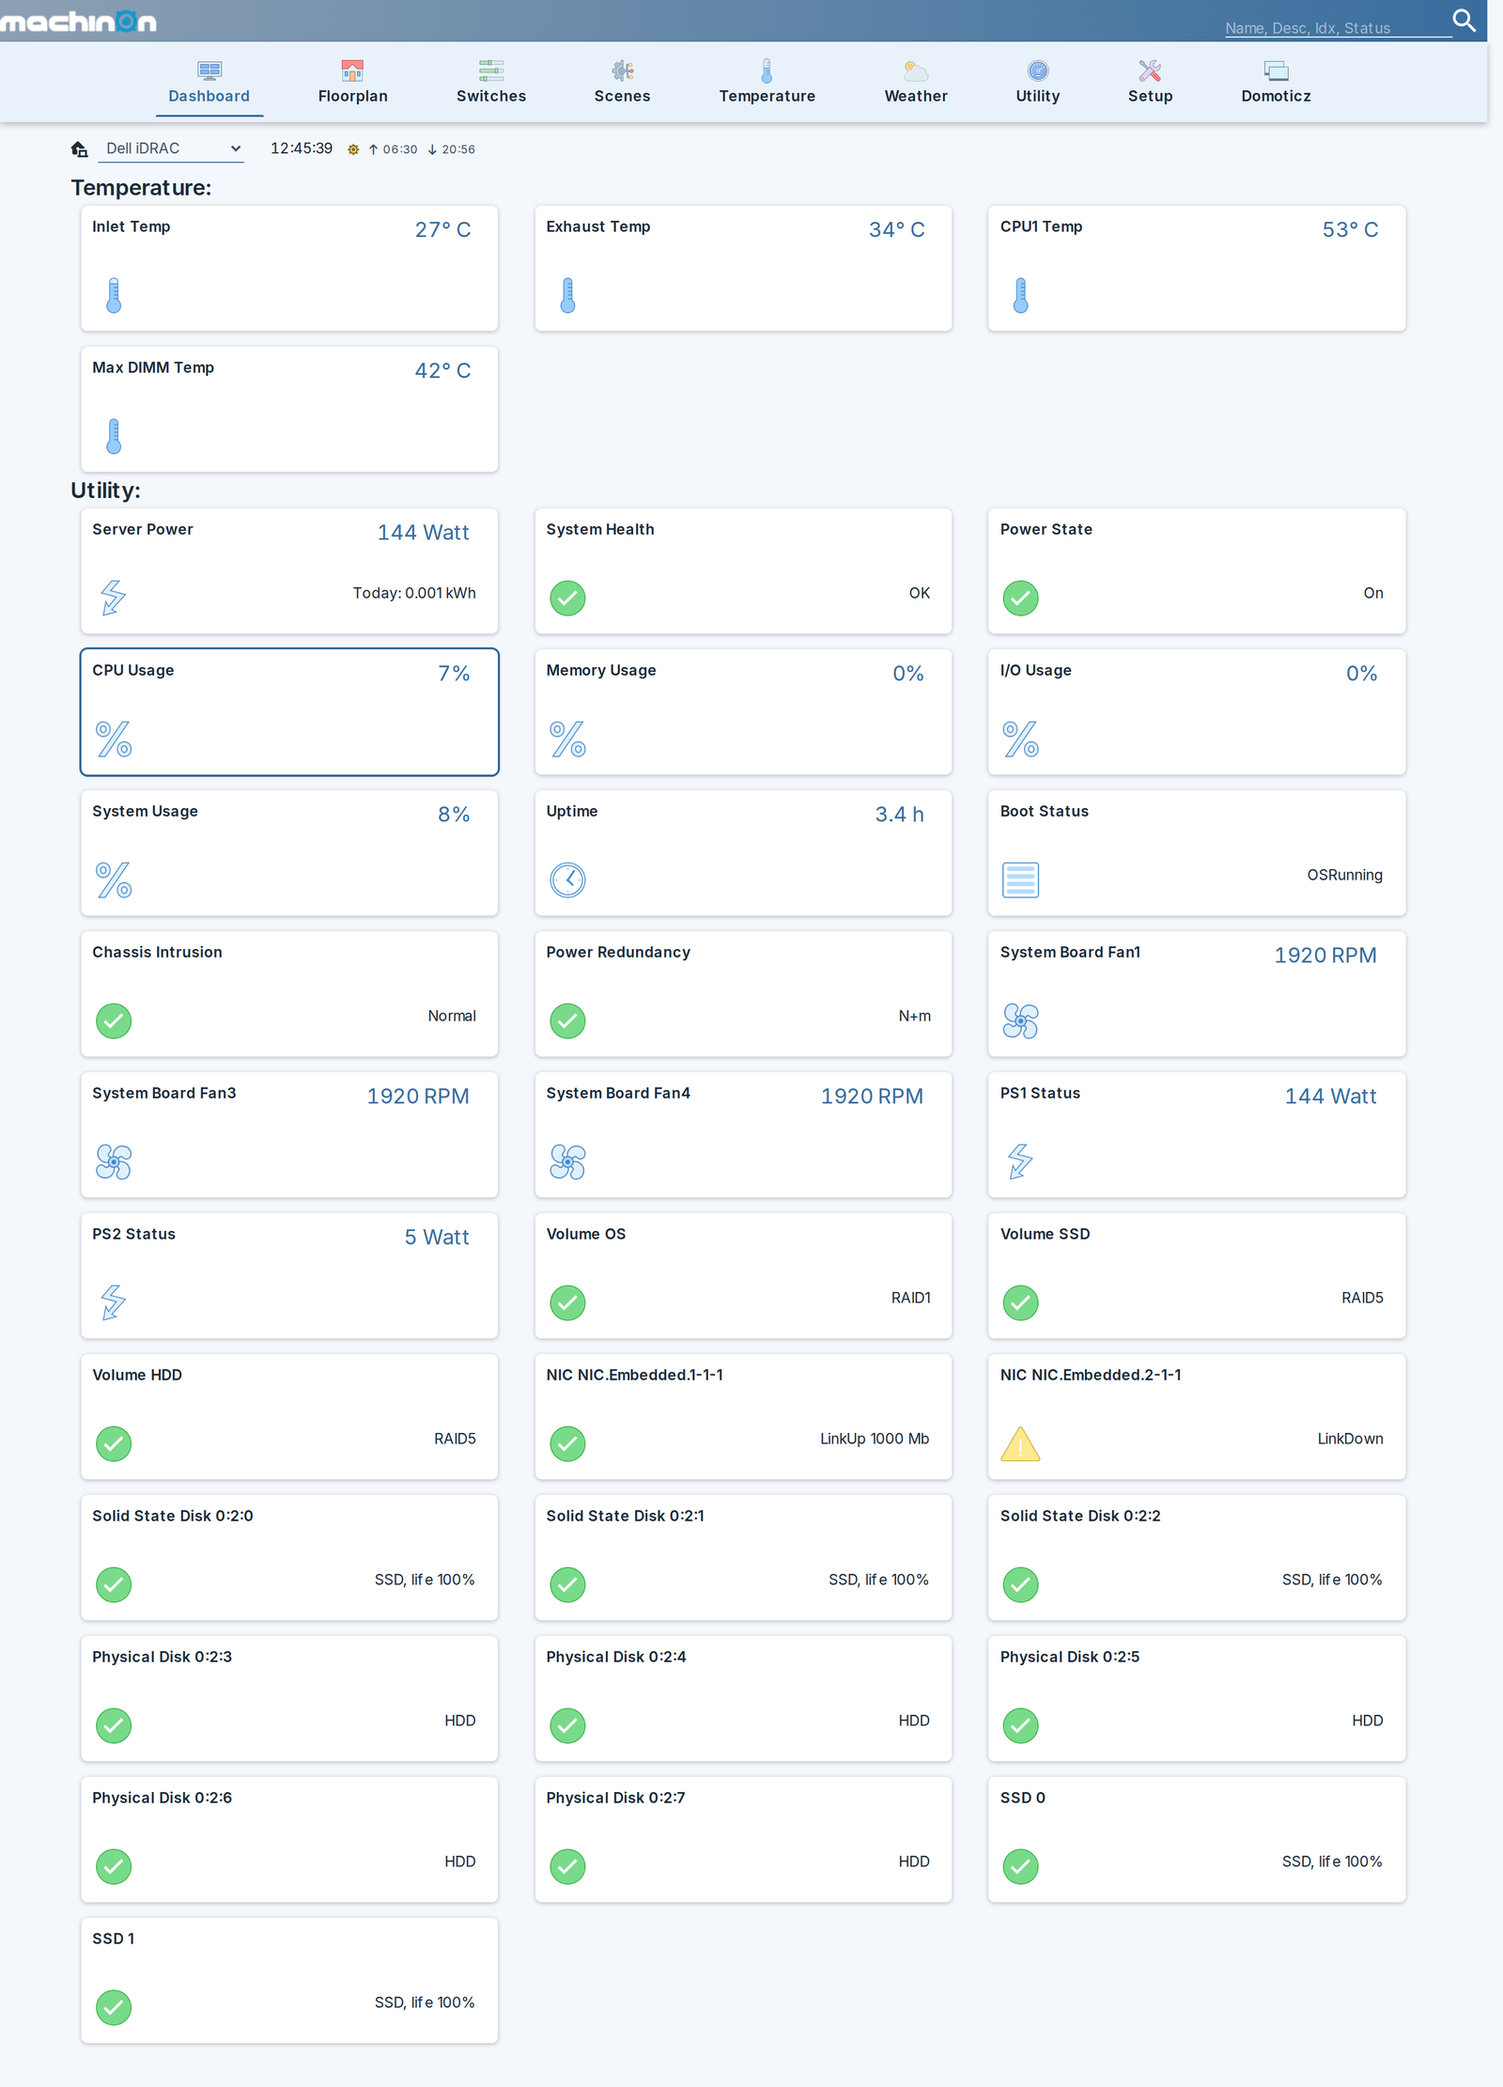
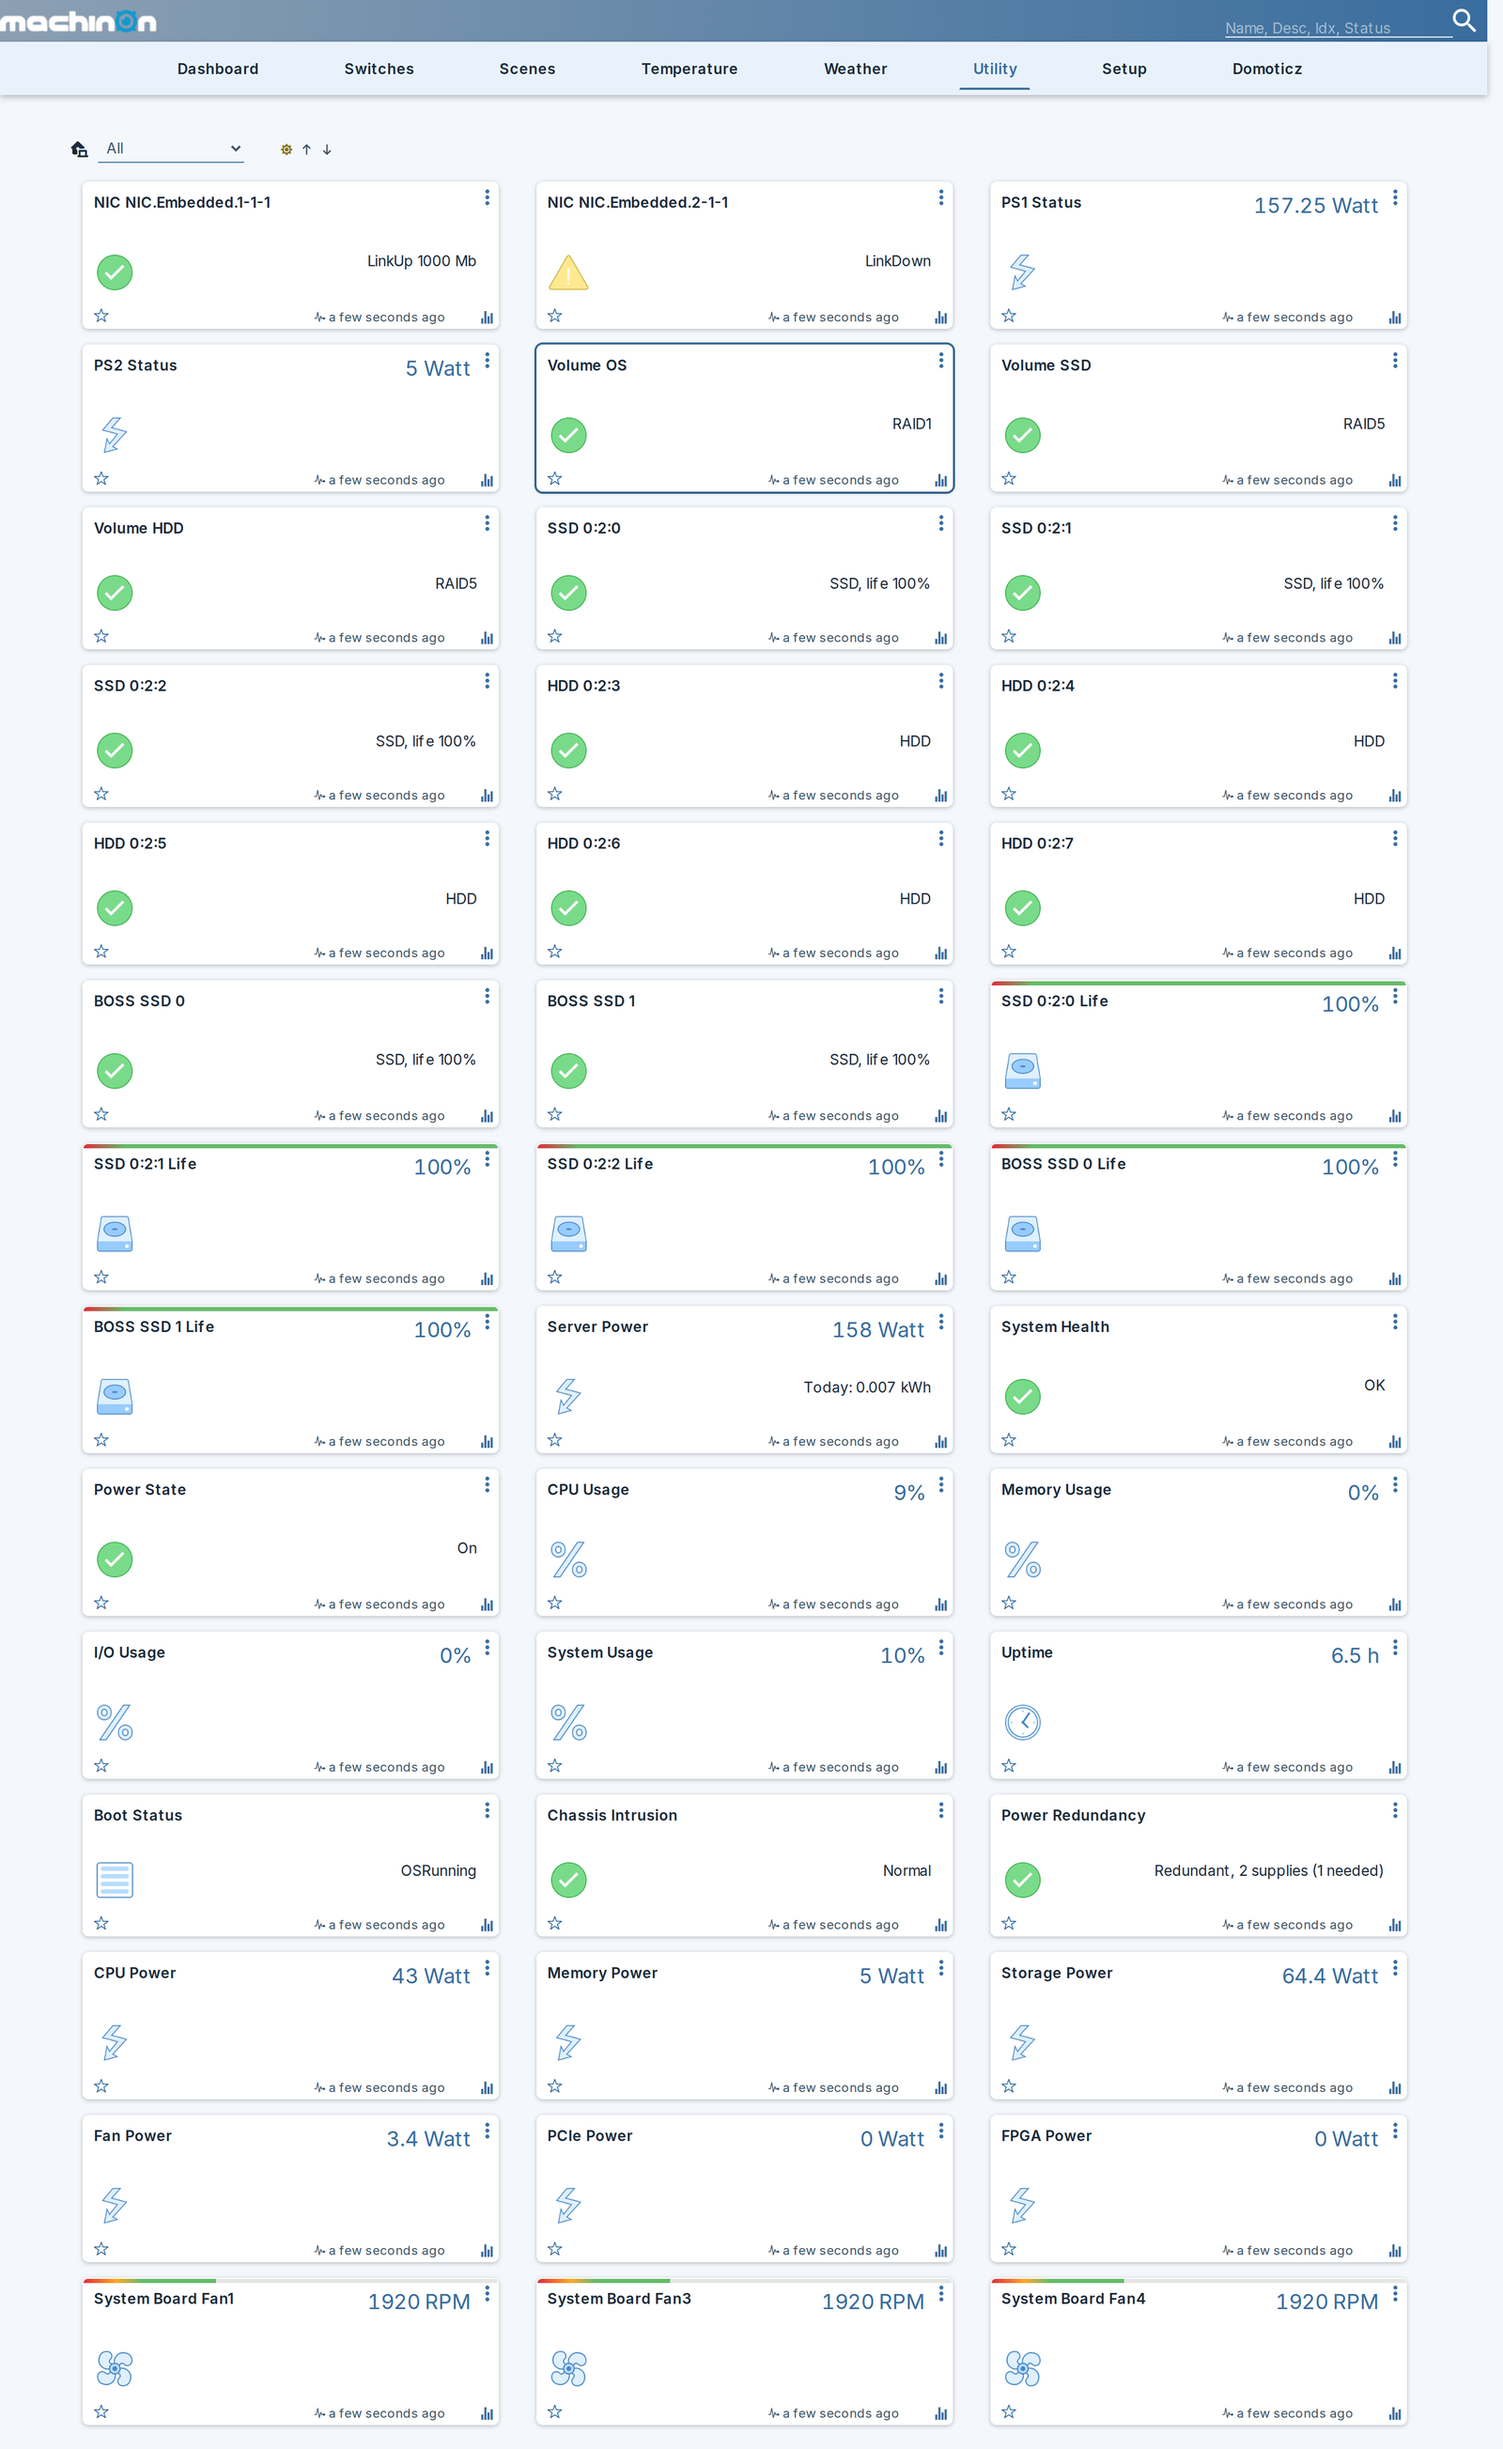
fix: declare the power selector a Selector Switch, and refresh the screenshots
TypeName "Selector Switch" does not set the switch type. The device was
created with SwitchType 0, STYPE_OnOff, so Domoticz drew a plain on/off
toggle and ignored the level names completely. A click would then have sent
On or Off while level_to_reset_type expects 10, 20, 30, so no power action
could ever have fired correctly.

Confirmed against a live database before and after: SwitchType 0 became 18,
STYPE_Selector from main/RFXNames.h, and the six level names now render.
SelectorStyle was already 1, which is Select menu rather than Button set,
verified from the core's own edit dialog.

Every test passed throughout, because control_updates is pure and nothing
asserted the switch type; the stub does not model how Domoticz interprets it.
A test now pins it, and pins that the identify LED correctly stays a plain
on/off switch.

Screenshots regenerated for the multi-Device layout, the new drive names and
the bars. The temperature bars are visible for the first time, since the theme
side that was hiding them has been fixed. Worth noting in the inlet card: its
fill starts partway across rather than at the left edge, which is the
centre-origin behaviour filed upstream, because that sensor's critical low is
genuinely below zero.

378 tests pass, ruff and format clean, pyright reports no errors, vulture clean.

diff --git a/tests/test_control.py b/tests/test_control.py
@@ -122,3 +122,16 @@ def test_the_power_control_selector_gets_an_icon():
     selector = next(u for u in updates if u.unit == control.UNIT_POWER_CONTROL)
     assert selector.image == planner.IMAGE_GENERIC
     assert selector.device == planner.DEVICE_CONTROL
+
+
+def test_the_selector_declares_itself_a_selector_switch():
+    """TypeName alone does not make it one. Verified against a live database: the device was
+    created with SwitchType 0, STYPE_OnOff, so Domoticz drew a plain on/off toggle and the level
+    names were never shown. A click would then send On or Off, and level_to_reset_type expects
+    10, 20, 30, so no power action could fire correctly."""
+    updates = control.control_updates(_cfg(allow_control=True), ["On"], False)
+    selector = next(u for u in updates if u.unit == control.UNIT_POWER_CONTROL)
+    assert selector.switchtype == control.SWITCHTYPE_SELECTOR == 18
+    identify = next(u for u in updates if u.unit == control.UNIT_IDENTIFY)
+    # The identify LED IS a plain on/off switch, so it correctly keeps the default.
+    assert identify.switchtype == 0

diff --git a/control.py b/control.py
@@ -29,6 +29,11 @@ ACTION_SLOTS = (
 
 HARD_RESET_TYPES = frozenset({"ForceOff", "PowerCycle"})
 
+# STYPE_Selector from the Domoticz core (main/RFXNames.h). TypeName "Selector Switch" alone does
+# NOT set this: without it the device is created as STYPE_OnOff and Domoticz draws a plain toggle,
+# ignoring the level names entirely, so a click sends On or Off and no level ever arrives.
+SWITCHTYPE_SELECTOR = 18
+
 
 def level_to_reset_type(level):
     """Domoticz selector levels are 0, 10, 20 ...; level 0 is the idle entry.
@@ -75,6 +80,7 @@ def control_updates(cfg, allowable, identify_on: bool) -> list:
             type_name="Selector Switch",
             name="Power Control",
             device=planner.DEVICE_CONTROL,
+            switchtype=SWITCHTYPE_SELECTOR,
             image=planner.IMAGE_GENERIC,
             nvalue=0,
             svalue="0",
